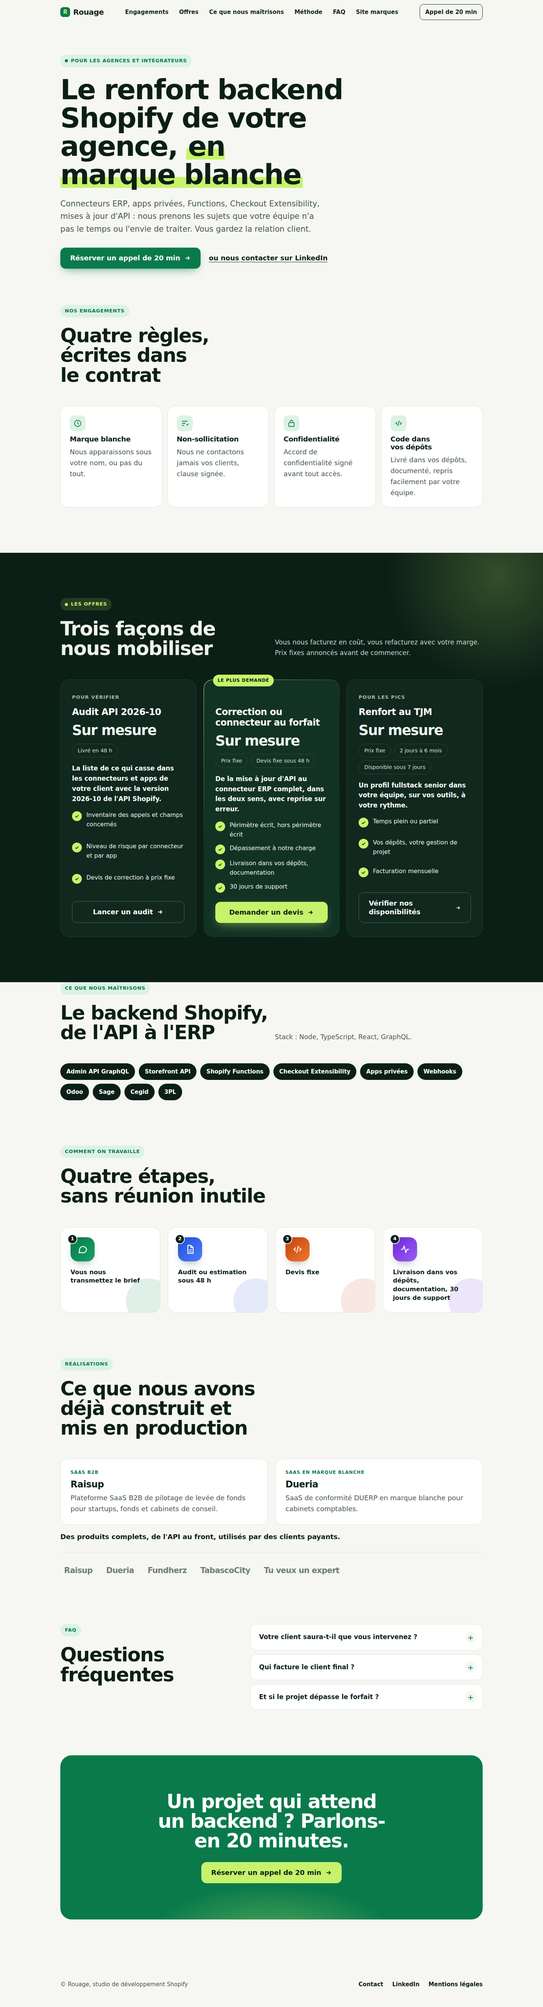
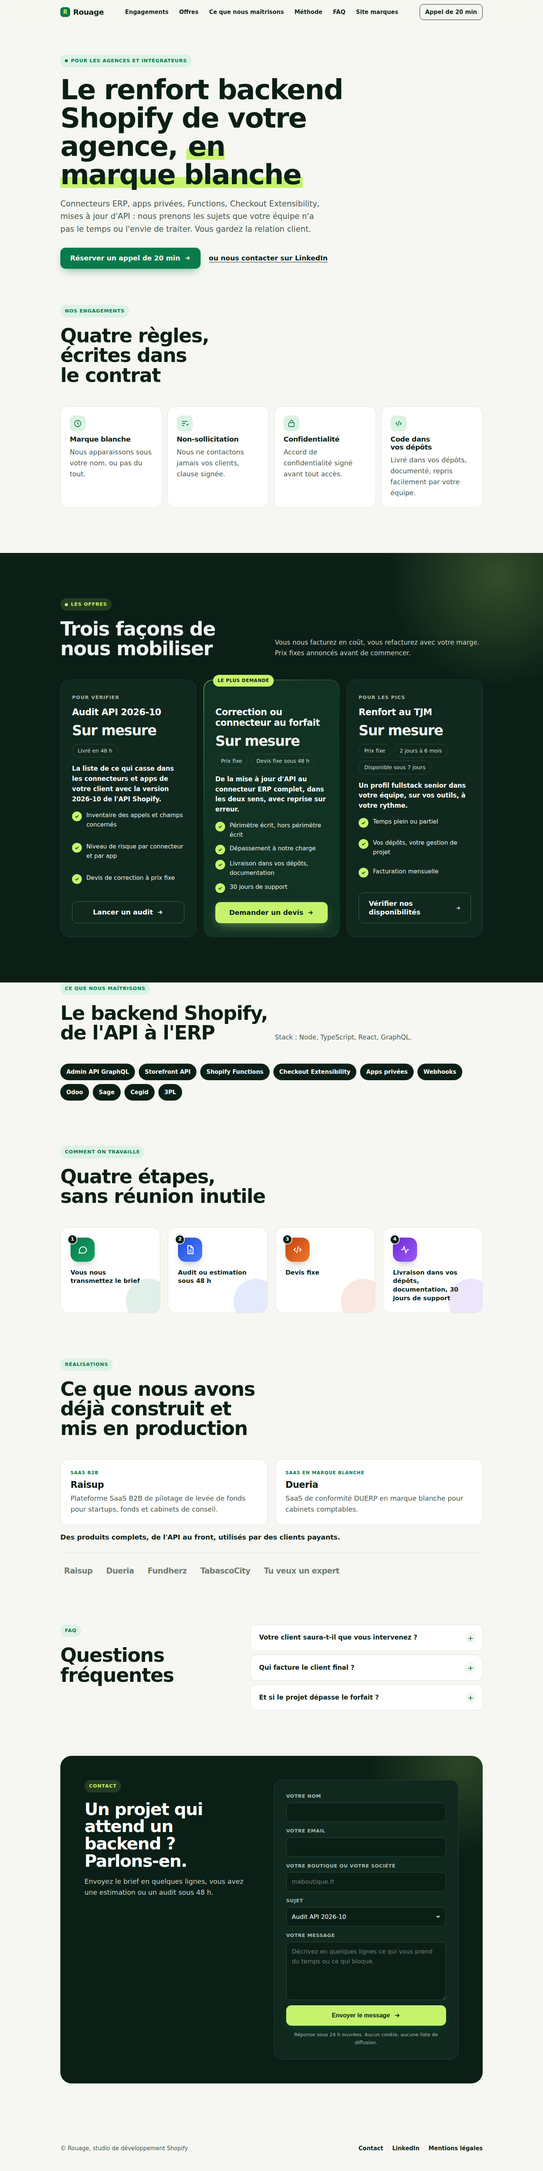
Formulaire de contact, tous les boutons y mènent tant que le lien de réservation n'est pas renseigné
Claude-Session: https://claude.ai/code/session_01ERjPNUzkxskTuGjvPgUDYN

Changed region(s): [[0.0, 0.0, 1.0, 0.9675]]

diff --git a/shopify/src/index.html b/shopify/src/index.html
@@ -23,7 +23,7 @@
 <header class="top"><div class="wrap">
 <a class="brand" href="./"><i>{{STUDIO_INITIALE}}</i>{{STUDIO}}</a>
 <nav class="menu" id="menu" aria-label="Navigation"><a href="agences.html">Agences</a><a href="#erp">Connecteur ERP</a><a href="#offre">Offres</a><a href="#methode">Méthode</a><a href="#realisations">Réalisations</a><a href="#faq">FAQ</a></nav>
-<a class="navcta" href="{{LIEN_CAL}}">Appel découverte</a>
+<a class="navcta" href="{{CTA}}">Appel découverte</a>
 <button class="burger" id="burger" aria-label="Ouvrir le menu" aria-expanded="false" aria-controls="menu"><span></span><span></span></button>
 </div></header>
 <main>
@@ -32,7 +32,7 @@
 <span class="tag"><span class="dot"></span>Studio Shopify · disponibles</span>
 <h1 class="split">Rouage, l'équipe dev des marques Shopify. <span class="hl">Nous automatisons vos tâches manuelles.</span></h1>
 <p class="lead">Connexion à votre ERP, synchro stock, commandes fournisseurs, SAV, exports compta : nous codons les automatisations sur mesure qui vous rendent des heures chaque semaine. Pour les marques Shopify de 1 à 20 M€ de chiffre d'affaires qui n'ont pas de dev en interne.</p>
-<a class="btn" href="{{LIEN_CAL}}">Réserver un appel découverte de 30 min <svg width="18" height="18" viewBox="0 0 24 24" fill="none" stroke="currentColor" stroke-width="2.4" aria-hidden="true"><path d="M5 12h14M13 6l6 6-6 6"/></svg></a>
+<a class="btn" href="{{CTA}}">Réserver un appel découverte de 30 min <svg width="18" height="18" viewBox="0 0 24 24" fill="none" stroke="currentColor" stroke-width="2.4" aria-hidden="true"><path d="M5 12h14M13 6l6 6-6 6"/></svg></a>
 <div class="reassure"><span><svg width="16" height="16" viewBox="0 0 24 24" fill="none" stroke="currentColor" stroke-width="2.6" aria-hidden="true"><path d="M5 12.5l4.5 4.5L19 7.5"/></svg>Sans engagement</span><span><svg width="16" height="16" viewBox="0 0 24 24" fill="none" stroke="currentColor" stroke-width="2.6" aria-hidden="true"><path d="M5 12.5l4.5 4.5L19 7.5"/></svg>Prix forfaitaire</span><span><svg width="16" height="16" viewBox="0 0 24 24" fill="none" stroke="currentColor" stroke-width="2.6" aria-hidden="true"><path d="M5 12.5l4.5 4.5L19 7.5"/></svg>Le code vous appartient</span></div>
 </div>
 <div class="mock" aria-label="Exemple d'automatisation : stock synchronisé sur trois canaux">
@@ -80,7 +80,7 @@
 <li><i><svg width="14" height="14" viewBox="0 0 24 24" fill="none" stroke="currentColor" stroke-width="3" aria-hidden="true"><path d="M5 12.5l4.5 4.5L19 7.5"/></svg></i>Pas d'abonnement à un connecteur tiers : le code vous appartient</li>
 <li><i><svg width="14" height="14" viewBox="0 0 24 24" fill="none" stroke="currentColor" stroke-width="3" aria-hidden="true"><path d="M5 12.5l4.5 4.5L19 7.5"/></svg></i>Maintenance et suivi des versions API, au forfait mensuel</li>
 </ul>
-<a class="btn" href="{{LIEN_CAL}}">Parler de mon ERP <svg width="18" height="18" viewBox="0 0 24 24" fill="none" stroke="currentColor" stroke-width="2.4" aria-hidden="true"><path d="M5 12h14M13 6l6 6-6 6"/></svg></a>
+<a class="btn" href="{{CTA}}">Parler de mon ERP <svg width="18" height="18" viewBox="0 0 24 24" fill="none" stroke="currentColor" stroke-width="2.4" aria-hidden="true"><path d="M5 12h14M13 6l6 6-6 6"/></svg></a>
 <p class="erp-note">Vous avez déjà un connecteur qui ne couvre pas vos cas ? L'audit dit ce qu'il faut garder, remplacer ou compléter.</p>
 </div>
 </div>
@@ -112,11 +112,11 @@
 <div class="sec-head"><div><span class="tag"><span class="dot"></span>Les offres</span><h2>Trois façons de travailler ensemble</h2></div><p>Prix fixes, délais annoncés, aucun dépassement facturé. On commence petit, on continue si ça vous fait gagner du temps.</p></div>
 <div class="urgent" id="api">
 <div><p class="urgent-k">API Shopify 2026-10</p><h3>Vos connecteurs sont-ils à jour ? Audit en 48 h, prix fixe</h3><p>La version 2026-10 de l'API Shopify supprime ou déprécie des champs utilisés par les connecteurs ERP et les apps privées : codes-barres des variantes, inventaire, filtres de metafields, remises sur brouillons de commande. Nous listons ce qui va casser chez vous et chiffrons la correction à prix fixe.</p></div>
-<a class="btn" href="{{LIEN_CAL}}">Vérifier mes connecteurs <svg width="18" height="18" viewBox="0 0 24 24" fill="none" stroke="currentColor" stroke-width="2.4" aria-hidden="true"><path d="M5 12h14M13 6l6 6-6 6"/></svg></a>
+<a class="btn" href="{{CTA}}">Vérifier mes connecteurs <svg width="18" height="18" viewBox="0 0 24 24" fill="none" stroke="currentColor" stroke-width="2.4" aria-hidden="true"><path d="M5 12h14M13 6l6 6-6 6"/></svg></a>
 </div>
 <div class="urgent" id="checkout">
 <div><p class="urgent-k">Depuis le 26 août 2026</p><h3>Suivi de conversion cassé depuis le 26 août ? Réparation en 3 jours, prix fixe</h3><p>Depuis le 26 août 2026, Shopify a désactivé les scripts additionnels des pages de remerciement et de suivi de commande. Si votre pixel, votre GTM ou vos codes de suivi ne remontent plus les ventes, nous migrons tout vers Checkout Extensibility et les Web Pixels, à prix fixe.</p></div>
-<a class="btn" href="{{LIEN_CAL}}">Vérifier mon checkout <svg width="18" height="18" viewBox="0 0 24 24" fill="none" stroke="currentColor" stroke-width="2.4" aria-hidden="true"><path d="M5 12h14M13 6l6 6-6 6"/></svg></a>
+<a class="btn" href="{{CTA}}">Vérifier mon checkout <svg width="18" height="18" viewBox="0 0 24 24" fill="none" stroke="currentColor" stroke-width="2.4" aria-hidden="true"><path d="M5 12h14M13 6l6 6-6 6"/></svg></a>
 </div>
 <div class="tiers">
 <article class="tier">
@@ -126,7 +126,7 @@
 <div class="meta"><span class="pill">Livré en 5 jours</span><span class="pill">Déduit du Sprint</span></div>
 <p class="promise">La carte de vos process manuels, chiffrés en heures perdues, avec les 3 automatisations les plus rentables à lancer.</p>
 <ul class="incl"><li><i><svg width="14" height="14" viewBox="0 0 24 24" fill="none" stroke="currentColor" stroke-width="3" aria-hidden="true"><path d="M5 12.5l4.5 4.5L19 7.5"/></svg></i>Atelier 1 h avec votre équipe</li><li><i><svg width="14" height="14" viewBox="0 0 24 24" fill="none" stroke="currentColor" stroke-width="3" aria-hidden="true"><path d="M5 12.5l4.5 4.5L19 7.5"/></svg></i>Audit de vos apps et flux (stock, commandes, SAV, compta)</li><li><i><svg width="14" height="14" viewBox="0 0 24 24" fill="none" stroke="currentColor" stroke-width="3" aria-hidden="true"><path d="M5 12.5l4.5 4.5L19 7.5"/></svg></i>Plan d'action priorisé avec devis fixe</li><li><i><svg width="14" height="14" viewBox="0 0 24 24" fill="none" stroke="currentColor" stroke-width="3" aria-hidden="true"><path d="M5 12.5l4.5 4.5L19 7.5"/></svg></i>Montant déduit si vous enchaînez sur un Sprint</li></ul>
-<a class="btn ghost" href="{{LIEN_CAL}}">Réserver un appel découverte <svg width="18" height="18" viewBox="0 0 24 24" fill="none" stroke="currentColor" stroke-width="2.4" aria-hidden="true"><path d="M5 12h14M13 6l6 6-6 6"/></svg></a>
+<a class="btn ghost" href="{{CTA}}">Réserver un appel découverte <svg width="18" height="18" viewBox="0 0 24 24" fill="none" stroke="currentColor" stroke-width="2.4" aria-hidden="true"><path d="M5 12h14M13 6l6 6-6 6"/></svg></a>
 </article>
 <article class="tier hot">
 <p class="tier-k">Le plus demandé</p>
@@ -135,7 +135,7 @@
 <div class="meta"><span class="pill">5 jours</span><span class="pill">Forfait fixe</span></div>
 <p class="promise">Un process manuel identifié, codé, testé et livré en production.</p>
 <ul class="incl"><li><i><svg width="14" height="14" viewBox="0 0 24 24" fill="none" stroke="currentColor" stroke-width="3" aria-hidden="true"><path d="M5 12.5l4.5 4.5L19 7.5"/></svg></i>Audit inclus</li><li><i><svg width="14" height="14" viewBox="0 0 24 24" fill="none" stroke="currentColor" stroke-width="3" aria-hidden="true"><path d="M5 12.5l4.5 4.5L19 7.5"/></svg></i>Développement sur mesure (Shopify API, Flow, apps, ERP, 3PL)</li><li><i><svg width="14" height="14" viewBox="0 0 24 24" fill="none" stroke="currentColor" stroke-width="3" aria-hidden="true"><path d="M5 12.5l4.5 4.5L19 7.5"/></svg></i>Mise en production et tests avec votre équipe</li><li><i><svg width="14" height="14" viewBox="0 0 24 24" fill="none" stroke="currentColor" stroke-width="3" aria-hidden="true"><path d="M5 12.5l4.5 4.5L19 7.5"/></svg></i>Documentation</li><li><i><svg width="14" height="14" viewBox="0 0 24 24" fill="none" stroke="currentColor" stroke-width="3" aria-hidden="true"><path d="M5 12.5l4.5 4.5L19 7.5"/></svg></i>30 jours de support</li></ul>
-<a class="btn" href="{{LIEN_CAL}}">Réserver un appel découverte <svg width="18" height="18" viewBox="0 0 24 24" fill="none" stroke="currentColor" stroke-width="2.4" aria-hidden="true"><path d="M5 12h14M13 6l6 6-6 6"/></svg></a>
+<a class="btn" href="{{CTA}}">Réserver un appel découverte <svg width="18" height="18" viewBox="0 0 24 24" fill="none" stroke="currentColor" stroke-width="2.4" aria-hidden="true"><path d="M5 12h14M13 6l6 6-6 6"/></svg></a>
 </article>
 <article class="tier">
 <p class="tier-k">Pour durer</p>
@@ -144,7 +144,7 @@
 <div class="meta"><span class="pill">3 jours de dev par mois</span><span class="pill">Sans engagement</span></div>
 <p class="promise">Votre équipe tech à la demande : nouvelles automatisations, évolutions, surveillance de ce qui tourne.</p>
 <ul class="incl"><li><i><svg width="14" height="14" viewBox="0 0 24 24" fill="none" stroke="currentColor" stroke-width="3" aria-hidden="true"><path d="M5 12.5l4.5 4.5L19 7.5"/></svg></i>Backlog partagé, priorisé chaque mois</li><li><i><svg width="14" height="14" viewBox="0 0 24 24" fill="none" stroke="currentColor" stroke-width="3" aria-hidden="true"><path d="M5 12.5l4.5 4.5L19 7.5"/></svg></i>Jours non utilisés reportés au mois suivant</li><li><i><svg width="14" height="14" viewBox="0 0 24 24" fill="none" stroke="currentColor" stroke-width="3" aria-hidden="true"><path d="M5 12.5l4.5 4.5L19 7.5"/></svg></i>Correctifs sous 48 h ouvrées</li><li><i><svg width="14" height="14" viewBox="0 0 24 24" fill="none" stroke="currentColor" stroke-width="3" aria-hidden="true"><path d="M5 12.5l4.5 4.5L19 7.5"/></svg></i>Point mensuel et rapport</li><li><i><svg width="14" height="14" viewBox="0 0 24 24" fill="none" stroke="currentColor" stroke-width="3" aria-hidden="true"><path d="M5 12.5l4.5 4.5L19 7.5"/></svg></i>Pause ou arrêt à tout moment</li></ul>
-<a class="btn ghost" href="{{LIEN_CAL}}">En parler <svg width="18" height="18" viewBox="0 0 24 24" fill="none" stroke="currentColor" stroke-width="2.4" aria-hidden="true"><path d="M5 12h14M13 6l6 6-6 6"/></svg></a>
+<a class="btn ghost" href="{{CTA}}">En parler <svg width="18" height="18" viewBox="0 0 24 24" fill="none" stroke="currentColor" stroke-width="2.4" aria-hidden="true"><path d="M5 12h14M13 6l6 6-6 6"/></svg></a>
 </article>
 </div>
 <p class="after">Projet plus large ? <strong>Connecteur ERP (voir plus haut), intégration 3PL, migration vers Shopify, B2B : devis fixe sous 48 h.</strong></p>
@@ -178,12 +178,21 @@
 </div>
 </div></section>
 
-<section class="final" style="padding-top:0"><div class="wrap"><div class="final-box">
-<h2>Une tâche vous prend trop de temps chaque semaine ? Parlons-en 30 minutes.</h2>
-<a class="btn" href="{{LIEN_CAL}}">Réserver un appel découverte de 30 min <svg width="18" height="18" viewBox="0 0 24 24" fill="none" stroke="currentColor" stroke-width="2.4" aria-hidden="true"><path d="M5 12h14M13 6l6 6-6 6"/></svg></a>
+<section class="final" id="contact" style="padding-top:0"><div class="wrap"><div class="contact-box">
+<div class="contact-intro"><span class="tag">Contact</span><h2>Une tâche vous prend trop de temps chaque semaine ? Parlons-en.</h2><p>Dites-nous ce qui bloque, nous revenons vers vous avec une première réponse et, si ça vaut le coup, un créneau de 30 minutes.</p><p class="contact-alt">Vous préférez un créneau ? <a href="{{LIEN_CAL}}" data-cal>Réserver un appel</a></p></div>
+<form class="contact-form" id="contactForm" action="{{FORM_ACTION}}" method="POST" novalidate>
+<div class="f-row"><label for="c-name">Votre nom</label><input id="c-name" name="nom" type="text" required autocomplete="name"></div>
+<div class="f-row"><label for="c-email">Votre email</label><input id="c-email" name="email" type="email" required autocomplete="email"></div>
+<div class="f-row"><label for="c-site">Votre boutique ou votre société</label><input id="c-site" name="site" type="text" placeholder="maboutique.fr" autocomplete="organization"></div>
+<div class="f-row"><label for="c-subject">Sujet</label><select id="c-subject" name="sujet"><option>Appel découverte</option><option>Connecteur ERP</option><option>Audit API 2026-10</option><option>Suivi de conversion cassé</option><option>Automatisation sur mesure</option><option>Autre</option></select></div>
+<div class="f-row"><label for="c-msg">Votre message</label><textarea id="c-msg" name="message" rows="5" required placeholder="Décrivez en quelques lignes ce qui vous prend du temps ou ce qui bloque."></textarea></div>
+<input type="text" name="_gotcha" tabindex="-1" autocomplete="off" class="hp" aria-hidden="true">
+<button class="btn" type="submit">Envoyer le message <svg width="18" height="18" viewBox="0 0 24 24" fill="none" stroke="currentColor" stroke-width="2.4" aria-hidden="true"><path d="M5 12h14M13 6l6 6-6 6"/></svg></button>
+<p class="f-note" id="formNote">Réponse sous 24 h ouvrées. Aucun cookie, aucune liste de diffusion.</p>
+</form>
 </div></div></section>
 </main>
-<div class="mbar" id="mbar"><a class="btn" href="{{LIEN_CAL}}">Réserver un appel découverte</a></div>
+<div class="mbar" id="mbar"><a class="btn" href="{{CTA}}">Réserver un appel découverte</a></div>
 {{FOOTER}}
 <script>
 (function(){var d=document,rm=matchMedia('(prefers-reduced-motion: reduce)').matches,H=d.querySelector('header.top');
@@ -203,6 +212,17 @@ if('IntersectionObserver'in window){var io=new IntersectionObserver(function(es)
 d.querySelectorAll('.sec-head,.erp-flow,.erp-offer,.erp-why div,.pb li,.card,.urgent,.tier,.steps li,.work,.agency-box,details,.final-box').forEach(function(el,k){if(el.getBoundingClientRect().top>innerHeight){el.classList.add('rv');el.style.transitionDelay=(el.parentElement.children.length>1?[].indexOf.call(el.parentElement.children,el)*90:0)+'ms';io.observe(el)}})}
 var q=d.querySelectorAll('[data-q]'),rows=d.querySelectorAll('.row'),n=42;
 setInterval(function(){n=n>21?n-1-(n%3===0):42;var i=Math.floor(Math.random()*3);rows[i].classList.remove('flash');void rows[i].offsetWidth;rows[i].classList.add('flash');q.forEach(function(e){e.textContent=n})},2200)})();
+
+(function(){var f=document.getElementById('contactForm'),n=document.getElementById('formNote');if(!f)return;
+var ph=/^\[/.test(f.getAttribute('action'));
+document.querySelectorAll('[data-cal]').forEach(function(a){if(/^\[/.test(a.getAttribute('href'))){a.parentElement.hidden=true}});
+f.addEventListener('submit',function(e){
+ if(!f.checkValidity()){e.preventDefault();f.reportValidity();return}
+ var d=new FormData(f),body='Nom : '+d.get('nom')+'\nEmail : '+d.get('email')+'\nBoutique : '+d.get('site')+'\nSujet : '+d.get('sujet')+'\n\n'+d.get('message');
+ if(ph){e.preventDefault();location.href='mailto:{{EMAIL}}?subject='+encodeURIComponent('[Site] '+d.get('sujet'))+'&body='+encodeURIComponent(body);n.textContent='Votre messagerie s\'ouvre avec le message prérempli. Si rien ne se passe, écrivez-nous directement à {{EMAIL}}.';return}
+ e.preventDefault();var b=f.querySelector('button');b.disabled=true;b.textContent='Envoi…';
+ fetch(f.action,{method:'POST',headers:{'Accept':'application/json'},body:d}).then(function(r){if(!r.ok)throw 0;f.reset();b.textContent='Message envoyé';n.textContent='Merci. Nous revenons vers vous sous 24 h ouvrées.'}).catch(function(){b.disabled=false;b.textContent='Envoyer le message';n.textContent='L\'envoi a échoué. Écrivez-nous directement à {{EMAIL}}.'})
+});})();
 </script>
 </body>
 </html>

diff --git a/shopify/src/agences.html b/shopify/src/agences.html
@@ -23,7 +23,7 @@
 <header class="top"><div class="wrap">
 <a class="brand" href="./"><i>{{STUDIO_INITIALE}}</i>{{STUDIO}}</a>
 <nav class="menu" id="menu" aria-label="Navigation"><a href="#engagements">Engagements</a><a href="#offres">Offres</a><a href="#stack">Ce que nous maîtrisons</a><a href="#methode">Méthode</a><a href="#faq">FAQ</a><a href="./">Site marques</a></nav>
-<a class="navcta" href="{{LIEN_CAL}}">Appel de 20 min</a>
+<a class="navcta" href="{{CTA}}">Appel de 20 min</a>
 <button class="burger" id="burger" aria-label="Ouvrir le menu" aria-expanded="false" aria-controls="menu"><span></span><span></span></button>
 </div></header>
 <main>
@@ -31,7 +31,7 @@
 <span class="tag"><span class="dot"></span>Pour les agences et intégrateurs</span>
 <h1 class="split">Le renfort backend Shopify de votre agence, <span class="hl">en marque blanche</span></h1>
 <p class="lead">Connecteurs ERP, apps privées, Functions, Checkout Extensibility, mises à jour d'API : nous prenons les sujets que votre équipe n'a pas le temps ou l'envie de traiter. Vous gardez la relation client.</p>
-<div class="hero-ctas"><a class="btn" href="{{LIEN_CAL}}">Réserver un appel de 20 min <svg width="18" height="18" viewBox="0 0 24 24" fill="none" stroke="currentColor" stroke-width="2.4" aria-hidden="true"><path d="M5 12h14M13 6l6 6-6 6"/></svg></a><a class="link-sec" href="{{LINKEDIN}}" rel="noopener">ou nous contacter sur LinkedIn</a></div>
+<div class="hero-ctas"><a class="btn" href="{{CTA}}">Réserver un appel de 20 min <svg width="18" height="18" viewBox="0 0 24 24" fill="none" stroke="currentColor" stroke-width="2.4" aria-hidden="true"><path d="M5 12h14M13 6l6 6-6 6"/></svg></a><a class="link-sec" href="{{LINKEDIN}}" rel="noopener">ou nous contacter sur LinkedIn</a></div>
 </div></section>
 
 <section id="engagements" class="commit" style="padding-top:0"><div class="wrap">
@@ -54,7 +54,7 @@
 <div class="meta"><span class="pill">Livré en 48 h</span></div>
 <p class="promise">La liste de ce qui casse dans les connecteurs et apps de votre client avec la version 2026-10 de l'API Shopify.</p>
 <ul class="incl"><li><i><svg width="14" height="14" viewBox="0 0 24 24" fill="none" stroke="currentColor" stroke-width="3" aria-hidden="true"><path d="M5 12.5l4.5 4.5L19 7.5"/></svg></i>Inventaire des appels et champs concernés</li><li><i><svg width="14" height="14" viewBox="0 0 24 24" fill="none" stroke="currentColor" stroke-width="3" aria-hidden="true"><path d="M5 12.5l4.5 4.5L19 7.5"/></svg></i>Niveau de risque par connecteur et par app</li><li><i><svg width="14" height="14" viewBox="0 0 24 24" fill="none" stroke="currentColor" stroke-width="3" aria-hidden="true"><path d="M5 12.5l4.5 4.5L19 7.5"/></svg></i>Devis de correction à prix fixe</li></ul>
-<a class="btn ghost" href="{{LIEN_CAL}}">Lancer un audit <svg width="18" height="18" viewBox="0 0 24 24" fill="none" stroke="currentColor" stroke-width="2.4" aria-hidden="true"><path d="M5 12h14M13 6l6 6-6 6"/></svg></a>
+<a class="btn ghost" href="{{CTA}}">Lancer un audit <svg width="18" height="18" viewBox="0 0 24 24" fill="none" stroke="currentColor" stroke-width="2.4" aria-hidden="true"><path d="M5 12h14M13 6l6 6-6 6"/></svg></a>
 </article>
 <article class="tier hot">
 <p class="tier-k">Le plus demandé</p>
@@ -63,7 +63,7 @@
 <div class="meta"><span class="pill">Prix fixe</span><span class="pill">Devis fixe sous 48 h</span></div>
 <p class="promise">De la mise à jour d'API au connecteur ERP complet, dans les deux sens, avec reprise sur erreur.</p>
 <ul class="incl"><li><i><svg width="14" height="14" viewBox="0 0 24 24" fill="none" stroke="currentColor" stroke-width="3" aria-hidden="true"><path d="M5 12.5l4.5 4.5L19 7.5"/></svg></i>Périmètre écrit, hors périmètre écrit</li><li><i><svg width="14" height="14" viewBox="0 0 24 24" fill="none" stroke="currentColor" stroke-width="3" aria-hidden="true"><path d="M5 12.5l4.5 4.5L19 7.5"/></svg></i>Dépassement à notre charge</li><li><i><svg width="14" height="14" viewBox="0 0 24 24" fill="none" stroke="currentColor" stroke-width="3" aria-hidden="true"><path d="M5 12.5l4.5 4.5L19 7.5"/></svg></i>Livraison dans vos dépôts, documentation</li><li><i><svg width="14" height="14" viewBox="0 0 24 24" fill="none" stroke="currentColor" stroke-width="3" aria-hidden="true"><path d="M5 12.5l4.5 4.5L19 7.5"/></svg></i>30 jours de support</li></ul>
-<a class="btn" href="{{LIEN_CAL}}">Demander un devis <svg width="18" height="18" viewBox="0 0 24 24" fill="none" stroke="currentColor" stroke-width="2.4" aria-hidden="true"><path d="M5 12h14M13 6l6 6-6 6"/></svg></a>
+<a class="btn" href="{{CTA}}">Demander un devis <svg width="18" height="18" viewBox="0 0 24 24" fill="none" stroke="currentColor" stroke-width="2.4" aria-hidden="true"><path d="M5 12h14M13 6l6 6-6 6"/></svg></a>
 </article>
 <article class="tier">
 <p class="tier-k">Pour les pics</p>
@@ -72,7 +72,7 @@
 <div class="meta"><span class="pill">Prix fixe</span><span class="pill">2 jours à 6 mois</span><span class="pill">Disponible sous 7 jours</span></div>
 <p class="promise">Un profil fullstack senior dans votre équipe, sur vos outils, à votre rythme.</p>
 <ul class="incl"><li><i><svg width="14" height="14" viewBox="0 0 24 24" fill="none" stroke="currentColor" stroke-width="3" aria-hidden="true"><path d="M5 12.5l4.5 4.5L19 7.5"/></svg></i>Temps plein ou partiel</li><li><i><svg width="14" height="14" viewBox="0 0 24 24" fill="none" stroke="currentColor" stroke-width="3" aria-hidden="true"><path d="M5 12.5l4.5 4.5L19 7.5"/></svg></i>Vos dépôts, votre gestion de projet</li><li><i><svg width="14" height="14" viewBox="0 0 24 24" fill="none" stroke="currentColor" stroke-width="3" aria-hidden="true"><path d="M5 12.5l4.5 4.5L19 7.5"/></svg></i>Facturation mensuelle</li></ul>
-<a class="btn ghost" href="{{LIEN_CAL}}">Vérifier nos disponibilités <svg width="18" height="18" viewBox="0 0 24 24" fill="none" stroke="currentColor" stroke-width="2.4" aria-hidden="true"><path d="M5 12h14M13 6l6 6-6 6"/></svg></a>
+<a class="btn ghost" href="{{CTA}}">Vérifier nos disponibilités <svg width="18" height="18" viewBox="0 0 24 24" fill="none" stroke="currentColor" stroke-width="2.4" aria-hidden="true"><path d="M5 12h14M13 6l6 6-6 6"/></svg></a>
 </article>
 </div>
 </div></section>
@@ -109,12 +109,21 @@
 </div>
 </div></section>
 
-<section class="final" style="padding-top:0"><div class="wrap"><div class="final-box">
-<h2>Un projet qui attend un backend ? Parlons-en 20 minutes.</h2>
-<a class="btn" href="{{LIEN_CAL}}">Réserver un appel de 20 min <svg width="18" height="18" viewBox="0 0 24 24" fill="none" stroke="currentColor" stroke-width="2.4" aria-hidden="true"><path d="M5 12h14M13 6l6 6-6 6"/></svg></a>
+<section class="final" id="contact" style="padding-top:0"><div class="wrap"><div class="contact-box">
+<div class="contact-intro"><span class="tag">Contact</span><h2>Un projet qui attend un backend ? Parlons-en.</h2><p>Envoyez le brief en quelques lignes, vous avez une estimation ou un audit sous 48 h.</p><p class="contact-alt">Vous préférez un créneau ? <a href="{{LIEN_CAL}}" data-cal>Réserver un appel</a></p></div>
+<form class="contact-form" id="contactForm" action="{{FORM_ACTION}}" method="POST" novalidate>
+<div class="f-row"><label for="c-name">Votre nom</label><input id="c-name" name="nom" type="text" required autocomplete="name"></div>
+<div class="f-row"><label for="c-email">Votre email</label><input id="c-email" name="email" type="email" required autocomplete="email"></div>
+<div class="f-row"><label for="c-site">Votre boutique ou votre société</label><input id="c-site" name="site" type="text" placeholder="maboutique.fr" autocomplete="organization"></div>
+<div class="f-row"><label for="c-subject">Sujet</label><select id="c-subject" name="sujet"><option>Audit API 2026-10</option><option>Correction ou connecteur au forfait</option><option>Renfort au TJM</option><option>Autre</option></select></div>
+<div class="f-row"><label for="c-msg">Votre message</label><textarea id="c-msg" name="message" rows="5" required placeholder="Décrivez en quelques lignes ce qui vous prend du temps ou ce qui bloque."></textarea></div>
+<input type="text" name="_gotcha" tabindex="-1" autocomplete="off" class="hp" aria-hidden="true">
+<button class="btn" type="submit">Envoyer le message <svg width="18" height="18" viewBox="0 0 24 24" fill="none" stroke="currentColor" stroke-width="2.4" aria-hidden="true"><path d="M5 12h14M13 6l6 6-6 6"/></svg></button>
+<p class="f-note" id="formNote">Réponse sous 24 h ouvrées. Aucun cookie, aucune liste de diffusion.</p>
+</form>
 </div></div></section>
 </main>
-<div class="mbar" id="mbar"><a class="btn" href="{{LIEN_CAL}}">Réserver un appel de 20 min</a></div>
+<div class="mbar" id="mbar"><a class="btn" href="{{CTA}}">Réserver un appel de 20 min</a></div>
 {{FOOTER}}
 <script>
 (function(){var d=document,rm=matchMedia('(prefers-reduced-motion: reduce)').matches,H=d.querySelector('header.top');
@@ -132,6 +141,17 @@ if(rm)return;
 var t=d.querySelector('.split'),i=0;(function w(n){[].slice.call(n.childNodes).forEach(function(c){if(c.nodeType===3){var fr=d.createDocumentFragment();c.textContent.split(/(\s+)/).forEach(function(p){if(!p.trim()){fr.appendChild(d.createTextNode(p));return}var s=d.createElement('span');s.className='w';s.style.animationDelay=(i++*55)+'ms';s.textContent=p;fr.appendChild(s)});n.replaceChild(fr,c)}else w(c)})})(t);t.classList.add('go');
 if('IntersectionObserver'in window){var io=new IntersectionObserver(function(es){es.forEach(function(e){if(e.isIntersecting){e.target.classList.add('in');io.unobserve(e.target)}})},{rootMargin:'0px 0px -8% 0px'});
 d.querySelectorAll('.sec-head,.commit-card,.tier,.chips li,.steps li,.work,details,.final-box').forEach(function(el){if(el.getBoundingClientRect().top>innerHeight){el.classList.add('rv');el.style.transitionDelay=(el.parentElement.children.length>1?[].indexOf.call(el.parentElement.children,el)*70:0)+'ms';io.observe(el)}})}})();
+
+(function(){var f=document.getElementById('contactForm'),n=document.getElementById('formNote');if(!f)return;
+var ph=/^\[/.test(f.getAttribute('action'));
+document.querySelectorAll('[data-cal]').forEach(function(a){if(/^\[/.test(a.getAttribute('href'))){a.parentElement.hidden=true}});
+f.addEventListener('submit',function(e){
+ if(!f.checkValidity()){e.preventDefault();f.reportValidity();return}
+ var d=new FormData(f),body='Nom : '+d.get('nom')+'\nEmail : '+d.get('email')+'\nBoutique : '+d.get('site')+'\nSujet : '+d.get('sujet')+'\n\n'+d.get('message');
+ if(ph){e.preventDefault();location.href='mailto:{{EMAIL}}?subject='+encodeURIComponent('[Site] '+d.get('sujet'))+'&body='+encodeURIComponent(body);n.textContent='Votre messagerie s\'ouvre avec le message prérempli. Si rien ne se passe, écrivez-nous directement à {{EMAIL}}.';return}
+ e.preventDefault();var b=f.querySelector('button');b.disabled=true;b.textContent='Envoi…';
+ fetch(f.action,{method:'POST',headers:{'Accept':'application/json'},body:d}).then(function(r){if(!r.ok)throw 0;f.reset();b.textContent='Message envoyé';n.textContent='Merci. Nous revenons vers vous sous 24 h ouvrées.'}).catch(function(){b.disabled=false;b.textContent='Envoyer le message';n.textContent='L\'envoi a échoué. Écrivez-nous directement à {{EMAIL}}.'})
+});})();
 </script>
 </body>
 </html>

diff --git a/shopify/src/style.css b/shopify/src/style.css
@@ -348,3 +348,25 @@ details[open] p{animation:up .4s both}
 .client-logos li:hover img{filter:none;opacity:1}
 .wordmark{font-family:var(--disp);font-weight:800;font-size:1.3rem;letter-spacing:-.03em;color:#6f7d75;white-space:nowrap;transition:color .2s}
 .client-logos li:hover .wordmark{color:var(--ink)}
+/* contact */
+.contact-box{display:grid;gap:32px;background:var(--ink);color:#eef3ef;border-radius:30px;padding:36px 24px;position:relative;overflow:hidden}
+.contact-box::before{content:"";position:absolute;width:520px;height:520px;right:-200px;top:-240px;background:radial-gradient(circle,rgba(198,243,107,.18),transparent 65%);pointer-events:none}
+.contact-intro{position:relative}
+.contact-intro .tag{background:rgba(198,243,107,.14);color:var(--lime)}
+.contact-intro h2{color:#fff;font-size:clamp(1.8rem,4.4vw,2.8rem);max-width:16ch}
+.contact-intro p{color:#c9d3cd;margin:18px 0 0;max-width:30em}
+.contact-alt a{color:var(--lime);font-weight:600}
+.contact-form{position:relative;display:grid;gap:14px;background:#10281e;border:1px solid #27423a;border-radius:22px;padding:22px}
+.f-row{display:grid;gap:6px}
+.f-row label{font-size:13px;font-weight:650;letter-spacing:.04em;text-transform:uppercase;color:#a9bab1}
+.f-row input,.f-row select,.f-row textarea{width:100%;font:inherit;font-size:16px;color:#fff;background:#0b1f17;border:1.5px solid #2f4a3d;border-radius:12px;padding:12px 14px;min-width:0}
+.f-row input::placeholder,.f-row textarea::placeholder{color:#6f7d75}
+.f-row input:focus,.f-row select:focus,.f-row textarea:focus{outline:none;border-color:var(--lime);box-shadow:0 0 0 3px rgba(198,243,107,.2)}
+.f-row select{appearance:none;-webkit-appearance:none;background-image:linear-gradient(45deg,transparent 50%,#a9bab1 50%),linear-gradient(135deg,#a9bab1 50%,transparent 50%);background-position:calc(100% - 20px) 50%,calc(100% - 14px) 50%;background-size:6px 6px;background-repeat:no-repeat}
+.f-row textarea{resize:vertical;min-height:120px}
+.hp{position:absolute;left:-9999px;width:1px;height:1px;opacity:0}
+.contact-form .btn{background:var(--lime);color:var(--ink);justify-content:center;border:0;cursor:pointer;width:100%;font-size:1rem}
+.contact-form .btn:hover{background:#d6fa8c}
+.contact-form .btn:disabled{opacity:.7;cursor:default;transform:none}
+.f-note{margin:0;font-size:13px;color:#a9bab1;text-align:center}
+@media(min-width:1024px){.contact-box{grid-template-columns:1fr 1.1fr;gap:56px;padding:64px}.contact-form{padding:32px}}
